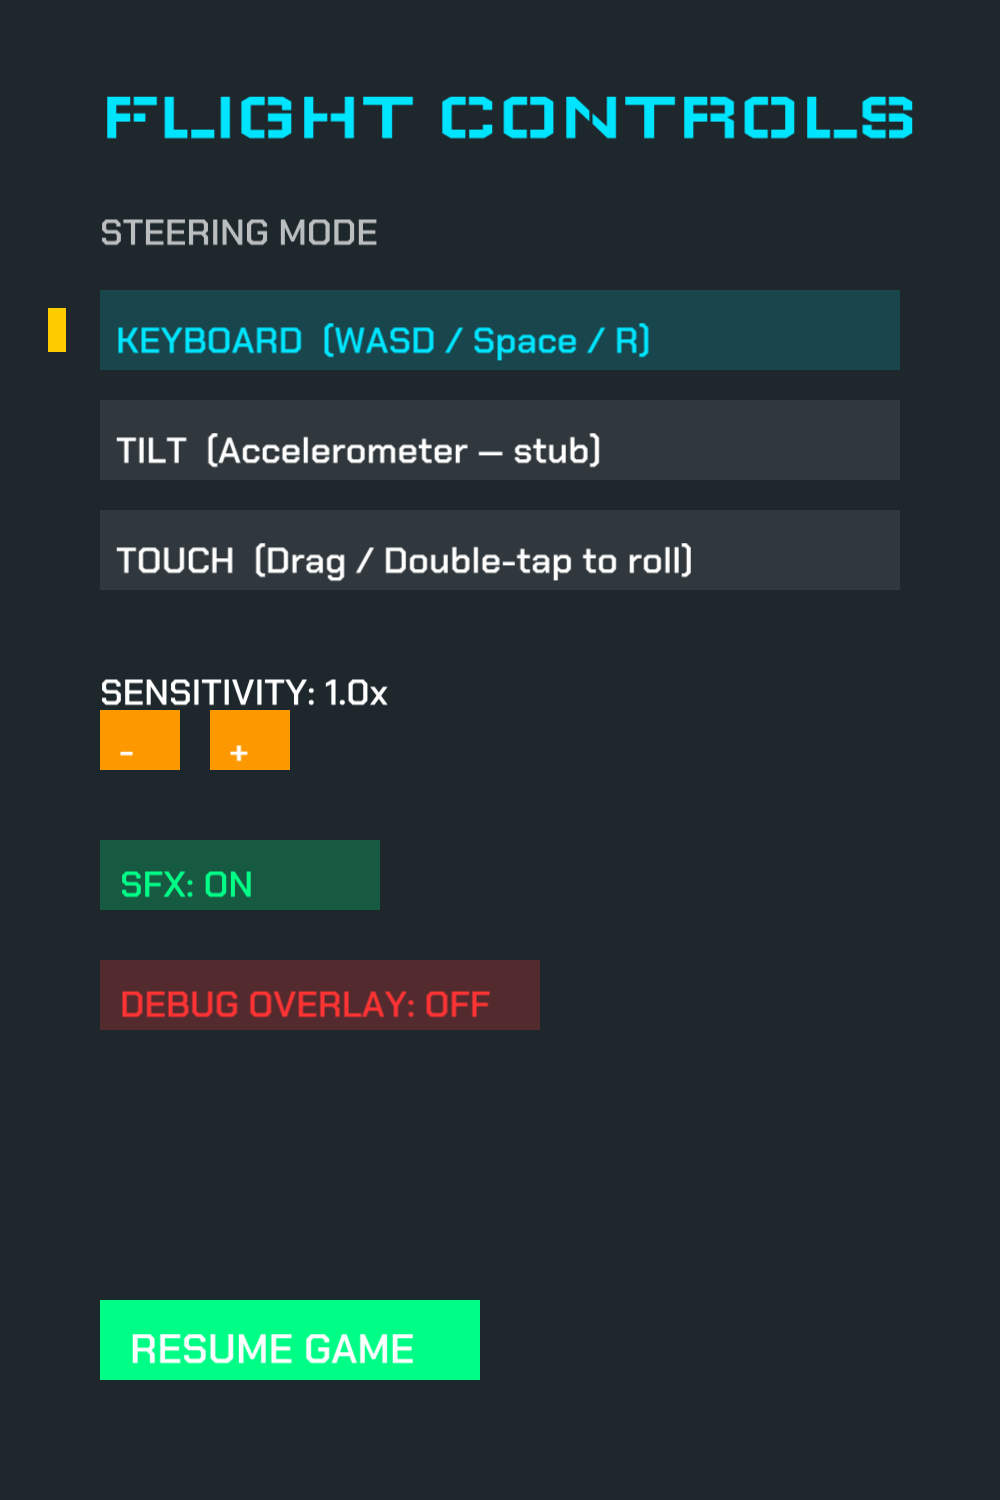
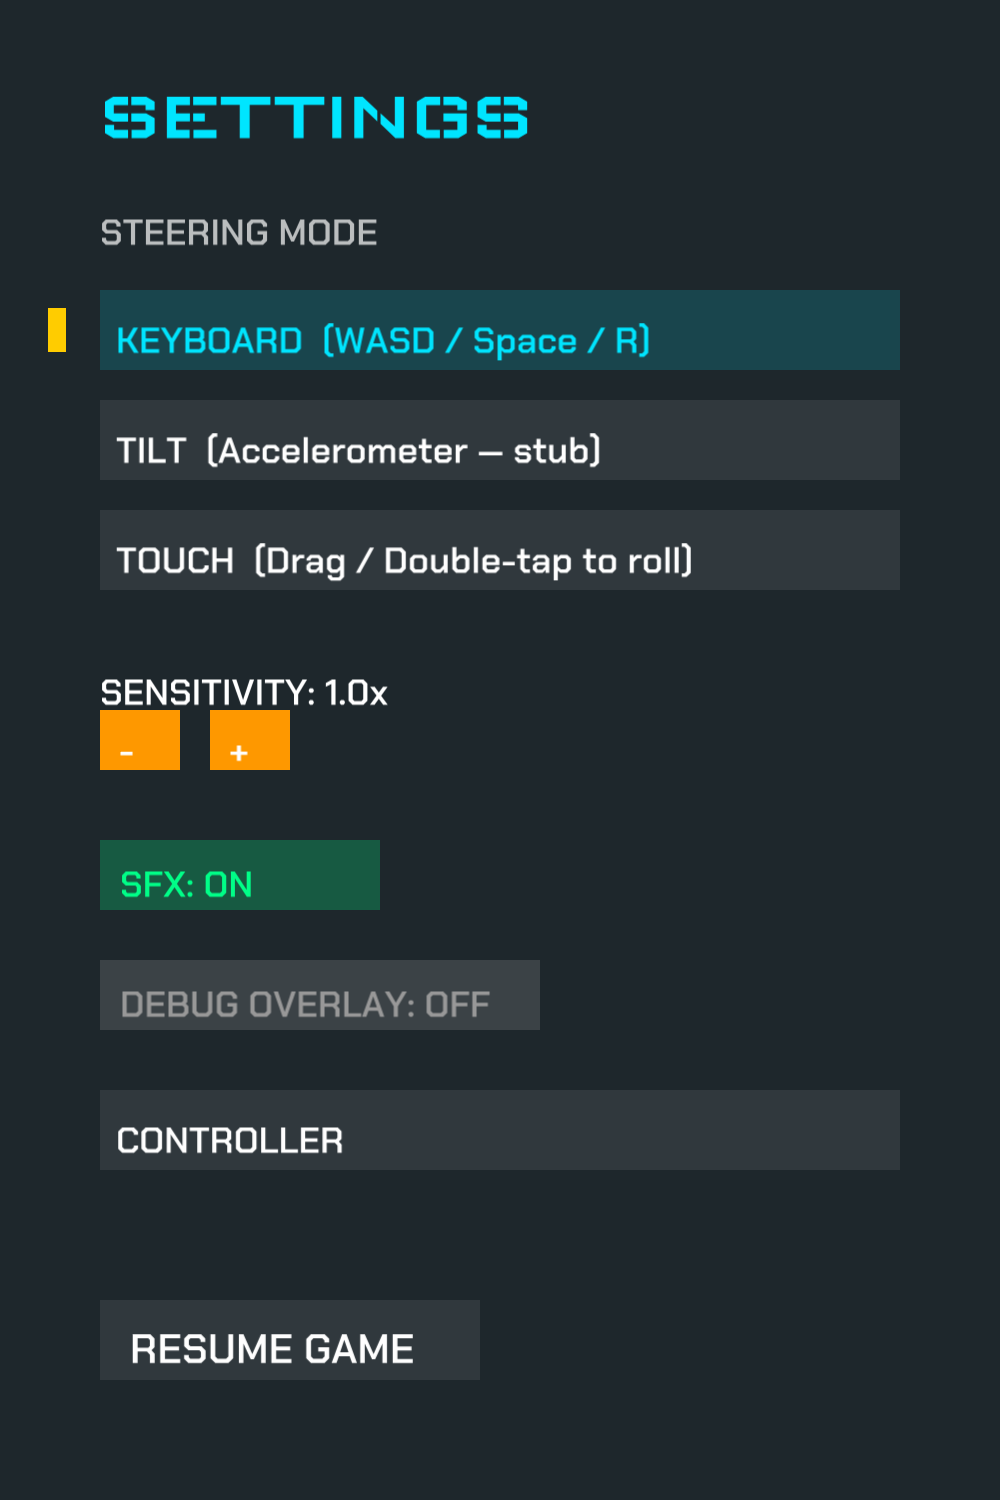
controller-prefs: design review refinements (Phase 3 follow-up)
Settings screen: rename title FLIGHT CONTROLS → SETTINGS; ghost exit
button (both RESUME GAME and SAVE & EXIT) to match other rows; debug
overlay off-color red → grey (green-on / grey-off pattern).

Controller Prefs screen: center binding chips (A / RB / Start) within
chip using measured text width; improve INVERT Y and DEADZONE ±
button text vertical alignment.

Capture: extend capture-screens.js to navigate Settings → CONTROLLER
and capture 5-controller-prefs.png; refresh all screen baselines.

diff --git a/composeApp/src/commonMain/kotlin/com/vitriolix/airwar2142/scenes/ControllerPrefsScene.kt b/composeApp/src/commonMain/kotlin/com/vitriolix/airwar2142/scenes/ControllerPrefsScene.kt
@@ -66,8 +66,9 @@ class ControllerPrefsScene(
             val chipW = if (listening) 340.0 else 120.0
             val chipX = 868.0 - chipW
             solidRect(chipW, 56.0, RGBA(255, 255, 255, 20)).position(chipX, cy + 12.0)
-            text(if (listening) "PRESS A BUTTON…" else chip, 36.0, Colors["#00E5FF"], font = Fonts.content)
-                .position(chipX + 8.0, cy + 18.0)
+            val chipLabel = text(if (listening) "PRESS A BUTTON…" else chip, 36.0, Colors["#00E5FF"], font = Fonts.content)
+            chipLabel.x = chipX + (chipW - chipLabel.width) / 2.0
+            chipLabel.y = cy + 18.0
             val listenAct = rebuild(idx, idx)
             solidRect(800.0, 80.0, RGBA(0, 0, 0, 1)).position(100.0, cy)
                 .onClickSuspend(views.coroutineContext) { listenAct() }
@@ -93,10 +94,10 @@ class ControllerPrefsScene(
         }
         solidRect(280.0, 70.0, invFill).position(100.0, 640.0)
         text(if (invertY) "INVERT Y: ON" else "INVERT Y: OFF", 36.0, invColor, font = Fonts.content)
-            .position(116.0, 652.0)
+            .position(116.0, 657.0)
         solidRect(280.0, 70.0, RGBA(0, 0, 0, 1)).position(100.0, 640.0)
             .onClickSuspend(views.coroutineContext) { invAct() }
-        fc.add(caretX, 652.0, invAct)
+        fc.add(caretX, 657.0, invAct)
 
         // Deadzone label + [−][track][+] slider — focus 4 (−) and 5 (+)
         val dzFrac = (deadzone * 100 + 0.5f).toInt()
@@ -111,20 +112,20 @@ class ControllerPrefsScene(
             nav.changeTo { ControllerPrefsScene(engine, nav, fromGame, fireBinding, rollBinding, pauseBinding, invertY, d, -1, 4) }
         }
         solidRect(80.0, 60.0, Colors["#FF9900"]).position(100.0, 810.0)
-        text("  -  ", 36.0, Colors.WHITE, font = Fonts.content).position(100.0, 818.0)
+        text("  -  ", 36.0, Colors.WHITE, font = Fonts.content).position(100.0, 824.0)
         solidRect(80.0, 60.0, RGBA(0, 0, 0, 1)).position(100.0, 810.0)
             .onClickSuspend(views.coroutineContext) { decAct() }
-        fc.add(caretX, 818.0, decAct)
+        fc.add(caretX, 824.0, decAct)
 
         val incAct: suspend () -> Unit = {
             val d = (deadzone + 0.05f).coerceAtMost(0.50f)
             nav.changeTo { ControllerPrefsScene(engine, nav, fromGame, fireBinding, rollBinding, pauseBinding, invertY, d, -1, 5) }
         }
         solidRect(80.0, 60.0, Colors["#FF9900"]).position(820.0, 810.0)
-        text("  +  ", 36.0, Colors.WHITE, font = Fonts.content).position(820.0, 818.0)
+        text("  +  ", 36.0, Colors.WHITE, font = Fonts.content).position(820.0, 824.0)
         solidRect(80.0, 60.0, RGBA(0, 0, 0, 1)).position(820.0, 810.0)
             .onClickSuspend(views.coroutineContext) { incAct() }
-        fc.add(778.0, 818.0, incAct)
+        fc.add(778.0, 824.0, incAct)
 
         // BACK button — focus 6
         val backY = CANVAS_HEIGHT - 200.0

diff --git a/composeApp/src/commonMain/kotlin/com/vitriolix/airwar2142/scenes/SettingsScene.kt b/composeApp/src/commonMain/kotlin/com/vitriolix/airwar2142/scenes/SettingsScene.kt
@@ -32,7 +32,7 @@ class SettingsScene(
         solidRect(1000.0, 1500.0, Colors["#1E272C"])
 
         // Title — 28sp → 72vp
-        text("FLIGHT CONTROLS", 72.0, Colors["#00E5FF"], font = Fonts.title).position(100.0, 80.0)
+        text("SETTINGS", 72.0, Colors["#00E5FF"], font = Fonts.title).position(100.0, 80.0)
 
         // Section label — 14sp → 36vp
         text("STEERING MODE", 36.0, RGBA(255, 255, 255, 178), font = Fonts.content).position(100.0, 200.0)
@@ -94,7 +94,7 @@ class SettingsScene(
         fc.add(caretX, 852.0, sfxAct)
 
         // Debug overlay toggle — focus index 6
-        val dbgColor = if (engine.showDebugOverlay) Colors["#00FF88"] else Colors["#FF3333"]
+        val dbgColor = if (engine.showDebugOverlay) Colors["#00FF88"] else Colors["#999999"]
         val dbgAct: suspend () -> Unit = { engine.showDebugOverlay = !engine.showDebugOverlay; rebuild(6)() }
         solidRect(440.0, 70.0, dbgColor.withA(60)).position(100.0, 960.0)
         text(if (engine.showDebugOverlay) "DEBUG OVERLAY: ON" else "DEBUG OVERLAY: OFF", 36.0, dbgColor, font = Fonts.content).position(120.0, 972.0)
@@ -113,8 +113,7 @@ class SettingsScene(
         // Exit button — focus index 8. "Resume Game" from an active mission, else "Save & Exit".
         val backY = CANVAS_HEIGHT - 200.0
         val exitLabel = if (fromGame) "RESUME GAME" else "SAVE & EXIT"
-        val exitColor = if (fromGame) Colors["#00FF88"] else Colors["#E53935"]
-        solidRect(380.0, 80.0, exitColor).position(100.0, backY)
+        solidRect(380.0, 80.0, RGBA(255, 255, 255, 20)).position(100.0, backY)
         text(exitLabel, 41.0, Colors.WHITE, font = Fonts.content).position(130.0, backY + 12.0)
         val doExit: suspend () -> Unit = if (fromGame) {
             { engine.togglePause(); nav.changeTo { GameScene(engine, nav) } }

diff --git a/scripts/capture-screens.js b/scripts/capture-screens.js
@@ -76,6 +76,12 @@ const H = Number(process.env.H || 1500);   // native logical canvas height
   await sleep(1200);
   await shot('4-settings');
 
+  // ArrowDown ×7 reaches focus index 7 (CONTROLLER row); Enter navigates to ControllerPrefsScene.
+  for (let i = 0; i < 7; i++) await page.keyboard.press('ArrowDown');
+  await page.keyboard.press('Enter');
+  await sleep(1200);
+  await shot('5-controller-prefs');
+
   await browser.close();
   console.log('done →', OUT);
 })().catch((e) => { console.error(e); process.exit(1); });